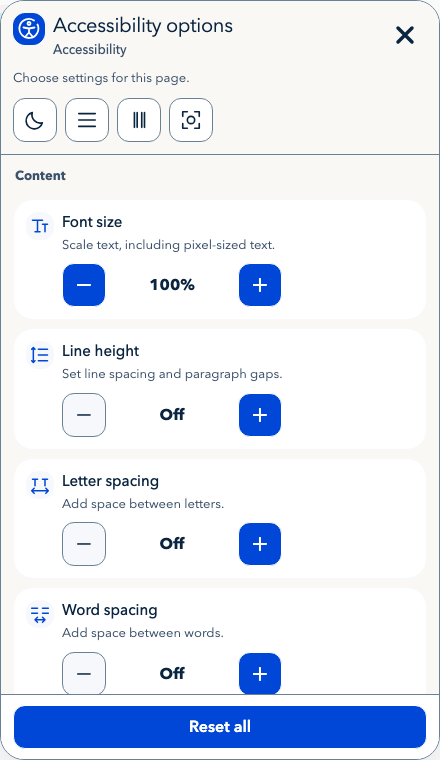
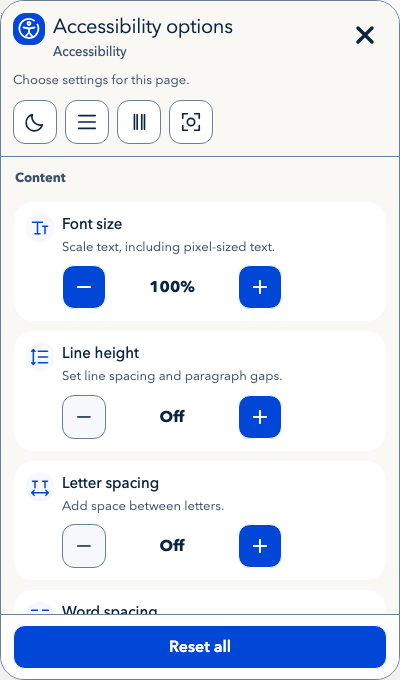
style(panel): reduce the desktop popup frame to 400 by 680

diff --git a/src/ui/placement.ts b/src/ui/placement.ts
@@ -21,7 +21,7 @@ export function placeUI(
   const gap = 8;
   const right = options.position.endsWith('right');
   const bottom = options.position.startsWith('bottom');
-  const width = Math.max(0, Math.min(440, view.width - gap * 2));
+  const width = Math.max(0, Math.min(400, view.width - gap * 2));
   const x = clamp(options.offset.x, gap, view.width - size - gap);
   const px = clamp(options.offset.x, gap, view.width - width - gap);
   const y = clamp(options.offset.y, gap, view.height - size - 144 - gap * 3);
@@ -36,7 +36,7 @@ export function placeUI(
     panelWidth: width,
     panelMaxHeight: Math.max(
       0,
-      Math.min(760, view.height - y - size - gap * 2),
+      Math.min(680, view.height - y - size - gap * 2),
     ),
     layoutWidth: view.layoutWidth,
     zIndex: options.zIndex,

diff --git a/site/index.html b/site/index.html
@@ -159,8 +159,8 @@
             <img
               class="toolkit-preview"
               src="/images/toolkit-white.png"
-              width="440"
-              height="760"
+              width="400"
+              height="680"
               fetchpriority="high"
               alt=""
             />
@@ -876,8 +876,8 @@
             /><img
               class="demo-band-panel"
               src="/images/toolkit-white.png"
-              width="440"
-              height="760"
+              width="400"
+              height="680"
               loading="lazy"
               alt=""
             />

diff --git a/tests/ui/placement.test.ts b/tests/ui/placement.test.ts
@@ -49,6 +49,11 @@ it('honours custom placement, z-index and visual viewport panning, with safe edg
   expect(custom.launcherLeft).toBe(30);
   expect(custom.launcherTop).toBe(24);
   expect(custom.panelLeft).toBe(30);
+  expect(custom.panelWidth).toBe(400);
+  expect(
+    placeUI({ ...desktop, height: 1000, layoutHeight: 1000 }, resolveOptions())
+      .panelMaxHeight,
+  ).toBe(680);
   expect(custom.panelTop).toBe(80);
   expect(custom.zIndex).toBe(50);
   const panned = placeUI(

diff --git a/site/toolkit/index.html b/site/toolkit/index.html
@@ -121,8 +121,8 @@
           <figure class="toolkit-detail-preview">
             <img
               src="/images/toolkit-white.png"
-              width="440"
-              height="760"
+              width="400"
+              height="680"
               alt="Accessibility panel with labelled text controls and reset button"
               loading="lazy"
             />

diff --git a/site/about/index.html b/site/about/index.html
@@ -123,8 +123,8 @@
         <figure class="mosaic-tile mosaic-product">
           <img
             src="/images/toolkit-white.png"
-            width="440"
-            height="760"
+            width="400"
+            height="680"
             alt="Toolkit panel with labelled text controls and a reset button"
             loading="lazy"
           />

diff --git a/docs/design-system.md b/docs/design-system.md
@@ -125,6 +125,7 @@ Binary features use two compact neutral cards per row, with one visible name and
 description. Switches have no repeated On/Off text: a moved knob, a changed track
 colour and aria-pressed expose state. Selection must not repaint the whole card.
 Keep action targets at least 44 px while reducing padding and icon sizes.
+Cap the desktop popup at 400 × 680 px; smaller viewports still control its actual size.
 
 Option lists remain native radio groups. Text alignment uses distinct icon-only
 choices with accessible names and hover/focus hints. Cursor options preserve their
